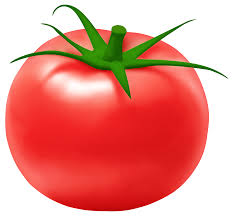
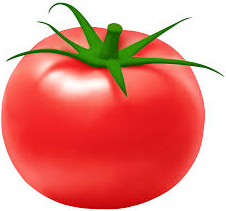
Modified main.py with functions and resized tomato.png

diff --git a/Day028-Dynamic-typing-and-the-pomodoro/main.py b/Day028-Dynamic-typing-and-the-pomodoro/main.py
@@ -1,6 +1,5 @@
 from tkinter import *
-
-from PIL import ImageTk
+import math
 
 # ---------------------------- CONSTANTS ------------------------------- #
 PINK = "#e2979c"
@@ -11,21 +10,57 @@ FONT_NAME = "Courier"
 WORK_MIN = 25
 SHORT_BREAK_MIN = 5
 LONG_BREAK_MIN = 20
-
+reps = 0
 # ---------------------------- TIMER RESET ------------------------------- #
 
 # ---------------------------- TIMER MECHANISM ------------------------------- #
+def start_timer():
+    """starts the timer"""
+    global reps
+    reps += 1
+    reps %= 4
 
+    count_down(5 * 60)
 # ---------------------------- COUNTDOWN MECHANISM ------------------------------- #
+def count_down(count):
+    """counts down once the start button is pressed"""
+    count_min = math.floor(count / 60)
+    count_sec = count % 60
+    if count_sec < 10:
+        count_sec = f"0{count_sec}"
+    canvas.itemconfig(timer_text, text=f"{count_min}:{count_sec}")
+    if count > 0:
+        window.after(1000, count_down, count - 1)
 
 # ---------------------------- UI SETUP ------------------------------- #
 window = Tk()
 window.title("Pomodoro")
-window.config(bg="white", padx=30, pady=30)
+window.config(bg="white", padx=100, pady=50)
 window.minsize(width=500, height=400)
-canvas = Canvas(width=234, height=216)
+
+# timer
+my_timer = Label(text="Timer", fg=GREEN,bg="white", font=(FONT_NAME, 30, "bold"))
+my_timer.grid(column=2, row=0)
+
+#tomato image
+canvas = Canvas(width=226, height=211, highlightthickness=0)
+canvas.config(bg="white")
 tomato_img = PhotoImage(file="tomato.png")
-canvas.create_image(117,108, image=tomato_img)
-canvas.pack()
+canvas.create_image(114,106, image=tomato_img)
+timer_text = canvas.create_text(103, 130, text="00:00", fill="white", font=(FONT_NAME, 35, "bold"))
+canvas.grid(column=2, row=2)
+
+# start
+my_start = Button(text="Start", font=(FONT_NAME, 14, "bold"), command=start_timer)
+my_start.grid(column=1, row=3)
+
+# Reset
+my_reset = Button(text="Reset", font=(FONT_NAME, 14, "bold"))
+my_reset.grid(column=3, row=3)
+
+# check
+my_check = Label(text="✔", bg="white", fg=GREEN, font=("Arial", 20, "bold"))
+my_check.grid(column=2, row=4)
+
 
 window.mainloop()
